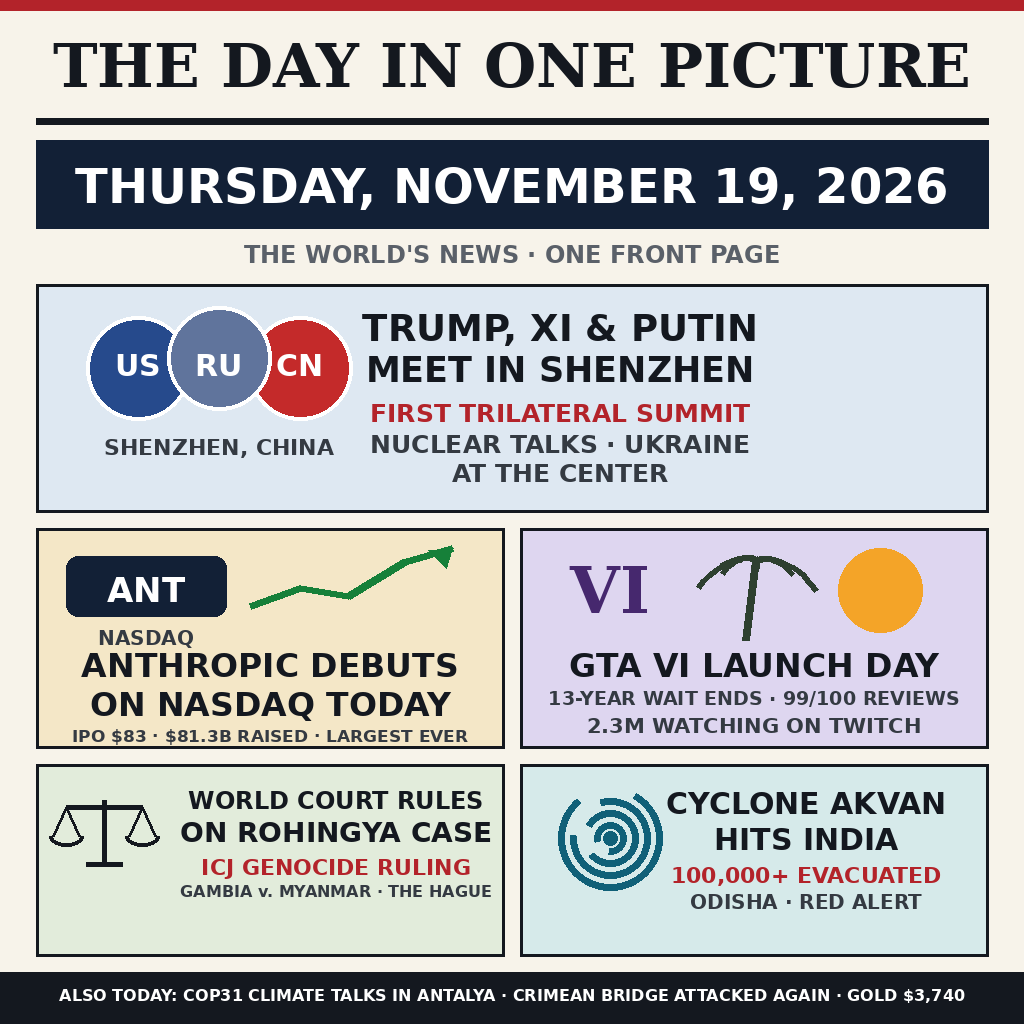
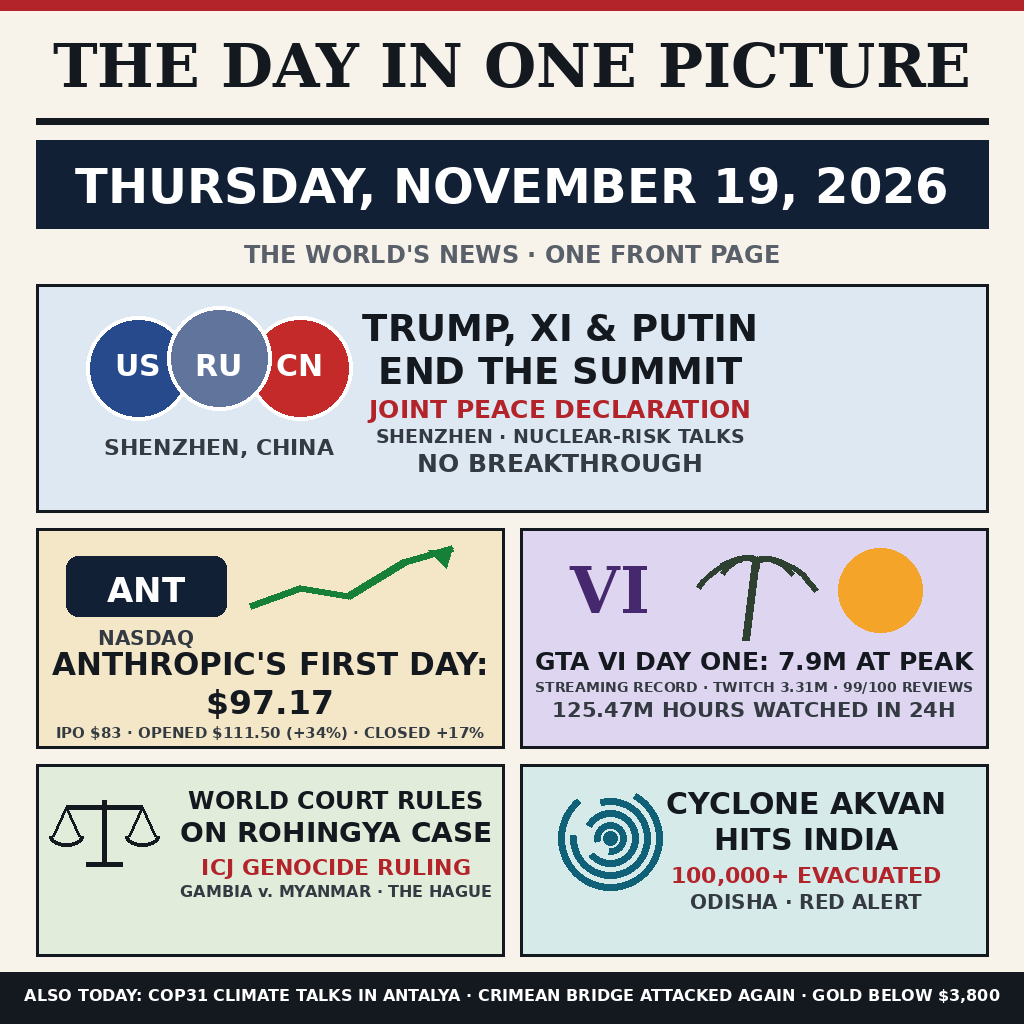
V2: the day's real results - Anthropic closes 7.17 (+17% vs IPO), GTA VI 7.9M peak viewers record, Shenzhen summit ends with joint declaration

diff --git a/draw_image.py b/draw_image.py
@@ -95,10 +95,14 @@ for cx, tag in [(138, "US"), (219, "RU"), (300, "CN")]:
 center("SHENZHEN, CHINA", 219, cy + 66, font(SANS, 22), fill=(52, 58, 66))
 
 lx = 560  # text centre for lead panel
-y = headline_lines(["TRUMP, XI & PUTIN", "MEET IN SHENZHEN"], lx, 306, 400, start=45)
-y = subline("FIRST TRILATERAL SUMMIT", lx, y + 8, 400, start=27, fill=RED)
-y = subline("NUCLEAR TALKS · UKRAINE", lx, y + 6, 400, start=25)
-subline("AT THE CENTER", lx, y + 4, 400, start=25)
+hf = fit("TRUMP, XI & PUTIN", SANS, 400, 45)
+center("TRUMP, XI & PUTIN", lx, 306, hf)
+y = 306 + hf.size + 6
+center("END THE SUMMIT", lx, y, hf)
+y += hf.size
+y = subline("JOINT PEACE DECLARATION", lx, y + 8, 400, start=27, fill=RED)
+y = subline("SHENZHEN · NUCLEAR-RISK TALKS", lx, y + 6, 400, start=25)
+subline("NO BREAKTHROUGH", lx, y + 4, 400, start=25)
 
 # ---------------------------------------------------------------- row 2
 panel(36, 528, 504, 748, (244, 231, 199))     # Anthropic (left)
@@ -111,8 +115,8 @@ pts = [(250, 606), (300, 588), (348, 596), (404, 562), (452, 548)]
 d.line(pts, fill=(22, 128, 57), width=7, joint="curve")
 d.polygon([(452, 548), (428, 550), (446, 568)], fill=(22, 128, 57))
 center("NASDAQ", 146, 626, font(SANS, 20), fill=(52, 58, 66))
-y = headline_lines(["ANTHROPIC DEBUTS", "ON NASDAQ TODAY"], 270, 646, 440, start=33)
-subline("IPO $83 · $81.3B RAISED · LARGEST EVER", 270, y + 2, 440, start=21)
+y = headline_lines(["ANTHROPIC'S FIRST DAY:", "$97.17"], 270, 646, 440, start=33)
+subline("IPO $83 · OPENED $111.50 (+34%) · CLOSED +17%", 270, y + 2, 440, start=21)
 
 # GTA VI: sun + palm + VI
 d.ellipse([838, 548, 922, 632], fill=(244, 164, 40))
@@ -128,9 +132,9 @@ for dx, droop in [(-58, 26), (-34, 12), (0, 6), (36, 12), (60, 28)]:
         pts.append((px, py))
     d.line(pts, fill=(46, 64, 48), width=6)
 center("VI", 610, 552, font(SERIF, 64), fill=(70, 40, 110))
-y = headline_lines(["GTA VI LAUNCH DAY"], 754, 646, 440, start=33)
-subline("13-YEAR WAIT ENDS · 99/100 REVIEWS", 754, y + 2, 440, start=21)
-subline("2.3M WATCHING ON TWITCH", 754, y + 28, 440, start=21)
+y = headline_lines(["GTA VI DAY ONE: 7.9M AT PEAK"], 754, 646, 440, start=33)
+y = subline("STREAMING RECORD · TWITCH 3.31M · 99/100 REVIEWS", 754, y + 2, 440, start=21)
+subline("125.47M HOURS WATCHED IN 24H", 754, y + 4, 440, start=21)
 
 # ---------------------------------------------------------------- row 3
 panel(36, 764, 504, 956, (226, 236, 219))     # ICJ (left)
@@ -160,8 +164,8 @@ subline("ODISHA · RED ALERT", 806, y + 32, 350, start=20)
 
 # ---------------------------------------------------------------- footer
 d.rectangle([0, 972, W, H], fill=INK)
-center("ALSO TODAY: COP31 CLIMATE TALKS IN ANTALYA · CRIMEAN BRIDGE ATTACKED AGAIN · GOLD $3,740",
-       W // 2, 986, fit("ALSO TODAY: COP31 CLIMATE TALKS IN ANTALYA · CRIMEAN BRIDGE ATTACKED AGAIN · GOLD $3,740",
+center("ALSO TODAY: COP31 CLIMATE TALKS IN ANTALYA · CRIMEAN BRIDGE ATTACKED AGAIN · GOLD BELOW $3,800",
+       W // 2, 986, fit("ALSO TODAY: COP31 CLIMATE TALKS IN ANTALYA · CRIMEAN BRIDGE ATTACKED AGAIN · GOLD BELOW $3,800",
                         SANS, 980, 24), fill=WHITE)
 
 out = Path(__file__).resolve().parent / "entry.png"

diff --git a/README.md b/README.md
@@ -8,12 +8,12 @@ One image that sums up the world news of **Thursday, November 19, 2026**, drawn 
 
 ## What's in the picture
 
-- **Trump, Xi & Putin meet in Shenzhen** — the first trilateral summit, with nuclear talks and Ukraine at the center.
-- **Anthropic debuts on Nasdaq** — ticker ANT; IPO priced at $83, $81.3B raised, the largest IPO ever.
-- **GTA VI launch day** — the 13-year wait ends; 99/100 reviews, 2.3M watching on Twitch.
+- **Trump, Xi & Putin end the Shenzhen summit** — a joint peace declaration on nuclear-risk talks and oil-output plans; no breakthrough, and Ukraine was not named.
+- **Anthropic's first day on Nasdaq** — ticker ANT; IPO priced at $83, opened at $111.50 (+34%), closed at $97.17 (+17%).
+- **GTA VI day one** — a streaming record: 7.9M peak concurrent viewers (3.31M on Twitch), 99/100 reviews, 125.47M hours watched in the first 24 hours.
 - **World Court rules on the Rohingya case** — the ICJ genocide ruling, Gambia v. Myanmar, at The Hague.
 - **Cyclone Akvan hits India** — 100,000+ evacuated in Odisha under a red alert.
-- Footer: COP31 climate talks in Antalya, the Crimean Bridge attacked again, gold at $3,740.
+- Footer: COP31 climate talks in Antalya, the Crimean Bridge attacked again, gold below $3,800.
 
 ## How it works
 
